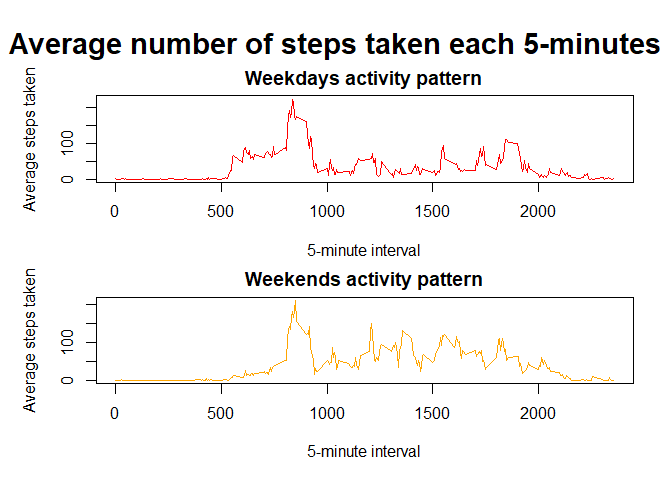
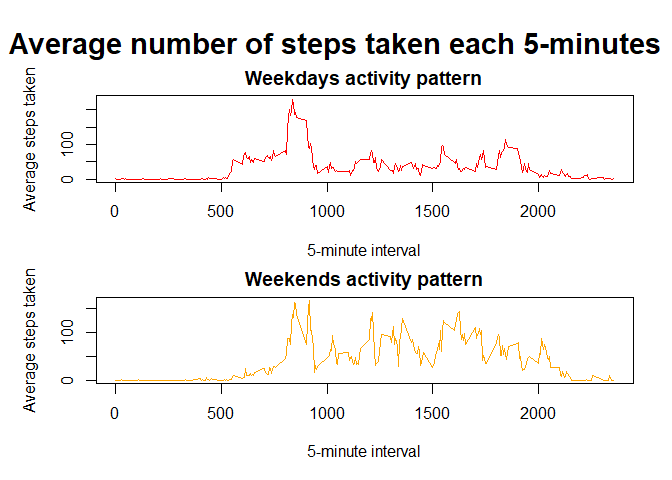
Corrected Friday to weekday.

diff --git a/PA1_template.html b/PA1_template.html
@@ -498,10 +498,10 @@ mtext(&quot;Total number of steps taken per day&quot;, line = 0, font = 2, side 
 <div id="are-there-differences-in-activity-patterns-between-weekdays-and-weekends" class="section level2">
 <h2>Are there differences in activity patterns between weekdays and weekends?</h2>
 <p>First, a new factor variable must be added to the data set according to whether a date is a weekday or weekend day. To avoid language problems, the function <code>weekdays</code> is not used because it returns the name of the day in the current set language. Since I am a Spanish speaker and my R session locale is set at Spanish, <code>weekdays</code> will return <code>&quot;lunes&quot;</code>, <code>&quot;martes&quot;</code>, <code>&quot;miércoles&quot;</code>, <code>&quot;jueves&quot;</code>, <code>&quot;viernes&quot;</code>, <code>&quot;sábado&quot;</code>, <code>&quot;domingo&quot;</code>, or a third-letter abbreviation. To elude working with this issue, the function <code>wday</code> is used on the <code>date</code> variable as <code>POSIXlt</code>. This will return a number from 0 to 6, which indicates the day of the week, starting on Sunday and ending on Saturday (i.e. Sunday = 0, Monday = 1…).</p>
-<p>This variable, called <code>day</code>, is then changed into a factor, whose levels are <code>0</code>, <code>1</code>, <code>2</code>, <code>3</code>, <code>4</code>, <code>5</code> and <code>6</code>. These levels are reassigned into <code>&quot;weekday&quot;</code> or “<code>weekend</code>” according to the number: <code>0</code>, <code>5</code> and <code>6</code> are Sunday, Friday and Saturday, respectively. It must be remembered that the data set with these changes is the one with imputed missing data.</p>
+<p>This variable, called <code>day</code>, is then changed into a factor, whose levels are <code>0</code>, <code>1</code>, <code>2</code>, <code>3</code>, <code>4</code>, <code>5</code> and <code>6</code>. These levels are reassigned into <code>&quot;weekday&quot;</code> or “<code>weekend</code>” according to the number: <code>0</code> and <code>6</code> are Sunday and Saturday, respectively. It must be remembered that the data set with these changes is the one with imputed missing data.</p>
 <pre class="r"><code>dat$day &lt;- as.POSIXlt(dat$date)$wday
 dat$day &lt;- as.factor(dat$day)
-levels(dat$day) &lt;- c(&quot;weekend&quot;, &quot;weekday&quot;, &quot;weekday&quot;, &quot;weekday&quot;, &quot;weekday&quot;, &quot;weekend&quot;, &quot;weekend&quot;)</code></pre>
+levels(dat$day) &lt;- c(&quot;weekend&quot;, &quot;weekday&quot;, &quot;weekday&quot;, &quot;weekday&quot;, &quot;weekday&quot;, &quot;weekday&quot;, &quot;weekend&quot;)</code></pre>
 <p>The data are split according to the new factor variable.</p>
 <pre class="r"><code>splitDat &lt;- split(dat, dat$day)</code></pre>
 <p>The following code chunks will calculate the average number of steps taken for each 5-minute interval, averaged across all weekday days or weekend days.</p>
@@ -510,23 +510,23 @@ averageStepsWeekdays &lt;- tapply(weekdays$steps, weekdays$interval, mean, na.rm
 averageStepsWeekdays &lt;- as.data.frame(averageStepsWeekdays)
 summary(averageStepsWeekdays)</code></pre>
 <pre><code>##  averageStepsWeekdays
-##  Min.   :  0.00      
-##  1st Qu.:  2.41      
-##  Median : 19.96      
-##  Mean   : 34.04      
-##  3rd Qu.: 53.69      
-##  Max.   :222.22</code></pre>
+##  Min.   :  0.000     
+##  1st Qu.:  2.156     
+##  Median : 25.700     
+##  Mean   : 35.553     
+##  3rd Qu.: 50.806     
+##  Max.   :230.356</code></pre>
 <pre class="r"><code>weekends &lt;- splitDat$weekend
 averageStepsWeekends &lt;- tapply(weekends$steps, weekends$interval, mean, na.rm = TRUE)
 averageStepsWeekends &lt;- as.data.frame(averageStepsWeekends)
 summary(averageStepsWeekends)</code></pre>
 <pre><code>##  averageStepsWeekends
-##  Min.   :  0.00      
-##  1st Qu.:  1.76      
-##  Median : 33.72      
-##  Mean   : 42.05      
-##  3rd Qu.: 70.58      
-##  Max.   :209.88</code></pre>
+##  Min.   :  0.000     
+##  1st Qu.:  1.188     
+##  Median : 32.312     
+##  Mean   : 42.312     
+##  3rd Qu.: 74.594     
+##  Max.   :166.625</code></pre>
 <p>Finally, the following code will make a panel plot containing a time series plot of the 5-minute interval (x-axis) and the average number of steps taken, averaged across all weekday days or weekend days (y-axis).</p>
 <pre class="r"><code>par(mfrow = c(2, 1), mar = c(4, 4, 2, 1),  oma = c(1, 1, 3, 1))
 
@@ -537,8 +537,8 @@ plot(unique(data$interval), averageStepsWeekends[[1]], type = &quot;l&quot;, mai
      xlab = &quot;5-minute interval&quot;, ylab = &quot;Average steps taken&quot;, col = &quot;orange&quot;, lwd = 1.5)
 
 mtext(&quot;Average number of steps taken each 5-minutes&quot;, line = 0, font = 2, side = 3, cex = 1.8, outer = TRUE)</code></pre>
[1 lines of base64/hex data omitted]
-<p>It can be seen that there’s not a notorious difference between the activity patterns of weekdays and weekends.</p>
[1 lines of base64/hex data omitted]
+<p>It can be seen that the average number of steps taken on weekends is higher than that on weekdays.</p>
 </div>
 
 

diff --git a/PA1_template.md b/PA1_template.md
@@ -234,13 +234,13 @@ From either the summary or the graph of the data set with `NAs` imputed, it can 
 
 First, a new factor variable must be added to the data set according to whether a date is a weekday or weekend day. To avoid language problems, the function `weekdays` is not used because it returns the name of the day in the current set language. Since I am a Spanish speaker and my R session locale is set at Spanish, `weekdays` will return `"lunes"`, `"martes"`, `"miércoles"`, `"jueves"`, `"viernes"`, `"sábado"`, `"domingo"`, or a third-letter abbreviation. To elude working with this issue, the function `wday` is used on the `date` variable as `POSIXlt`. This will return a number from 0 to 6, which indicates the day of the week, starting on Sunday and ending on Saturday (i.e. Sunday = 0, Monday = 1...).
 
-This variable, called `day`, is then changed into a factor, whose levels are `0`, `1`, `2`, `3`, `4`, `5` and `6`. These levels are reassigned into `"weekday"` or "`weekend`" according to the number: `0`, `5` and `6` are Sunday, Friday and Saturday, respectively. It must be remembered that the data set with these changes is the one with imputed missing data.
+This variable, called `day`, is then changed into a factor, whose levels are `0`, `1`, `2`, `3`, `4`, `5` and `6`. These levels are reassigned into `"weekday"` or "`weekend`" according to the number: `0` and `6` are Sunday and Saturday, respectively. It must be remembered that the data set with these changes is the one with imputed missing data.
 
 
 ```r
 dat$day <- as.POSIXlt(dat$date)$wday
 dat$day <- as.factor(dat$day)
-levels(dat$day) <- c("weekend", "weekday", "weekday", "weekday", "weekday", "weekend", "weekend")
+levels(dat$day) <- c("weekend", "weekday", "weekday", "weekday", "weekday", "weekday", "weekend")
 ```
 
 The data are split according to the new factor variable.
@@ -262,12 +262,12 @@ summary(averageStepsWeekdays)
 
 ```
 ##  averageStepsWeekdays
-##  Min.   :  0.00      
-##  1st Qu.:  2.41      
-##  Median : 19.96      
-##  Mean   : 34.04      
-##  3rd Qu.: 53.69      
-##  Max.   :222.22
+##  Min.   :  0.000     
+##  1st Qu.:  2.156     
+##  Median : 25.700     
+##  Mean   : 35.553     
+##  3rd Qu.: 50.806     
+##  Max.   :230.356
 ```
 
 ```r
@@ -279,12 +279,12 @@ summary(averageStepsWeekends)
 
 ```
 ##  averageStepsWeekends
-##  Min.   :  0.00      
-##  1st Qu.:  1.76      
-##  Median : 33.72      
-##  Mean   : 42.05      
-##  3rd Qu.: 70.58      
-##  Max.   :209.88
+##  Min.   :  0.000     
+##  1st Qu.:  1.188     
+##  Median : 32.312     
+##  Mean   : 42.312     
+##  3rd Qu.: 74.594     
+##  Max.   :166.625
 ```
 
 Finally, the following code will make a panel plot containing a time series plot of the 5-minute interval (x-axis) and the average number of steps taken, averaged across all weekday days or weekend days (y-axis).
@@ -304,4 +304,4 @@ mtext("Average number of steps taken each 5-minutes", line = 0, font = 2, side =
 
 ![](PA1_template_files/figure-html/histograms-1.png)<!-- -->
 
-It can be seen that there's not a notorious difference between the activity patterns of weekdays and weekends.
+It can be seen that the average number of steps taken on weekends is higher than that on weekdays.
